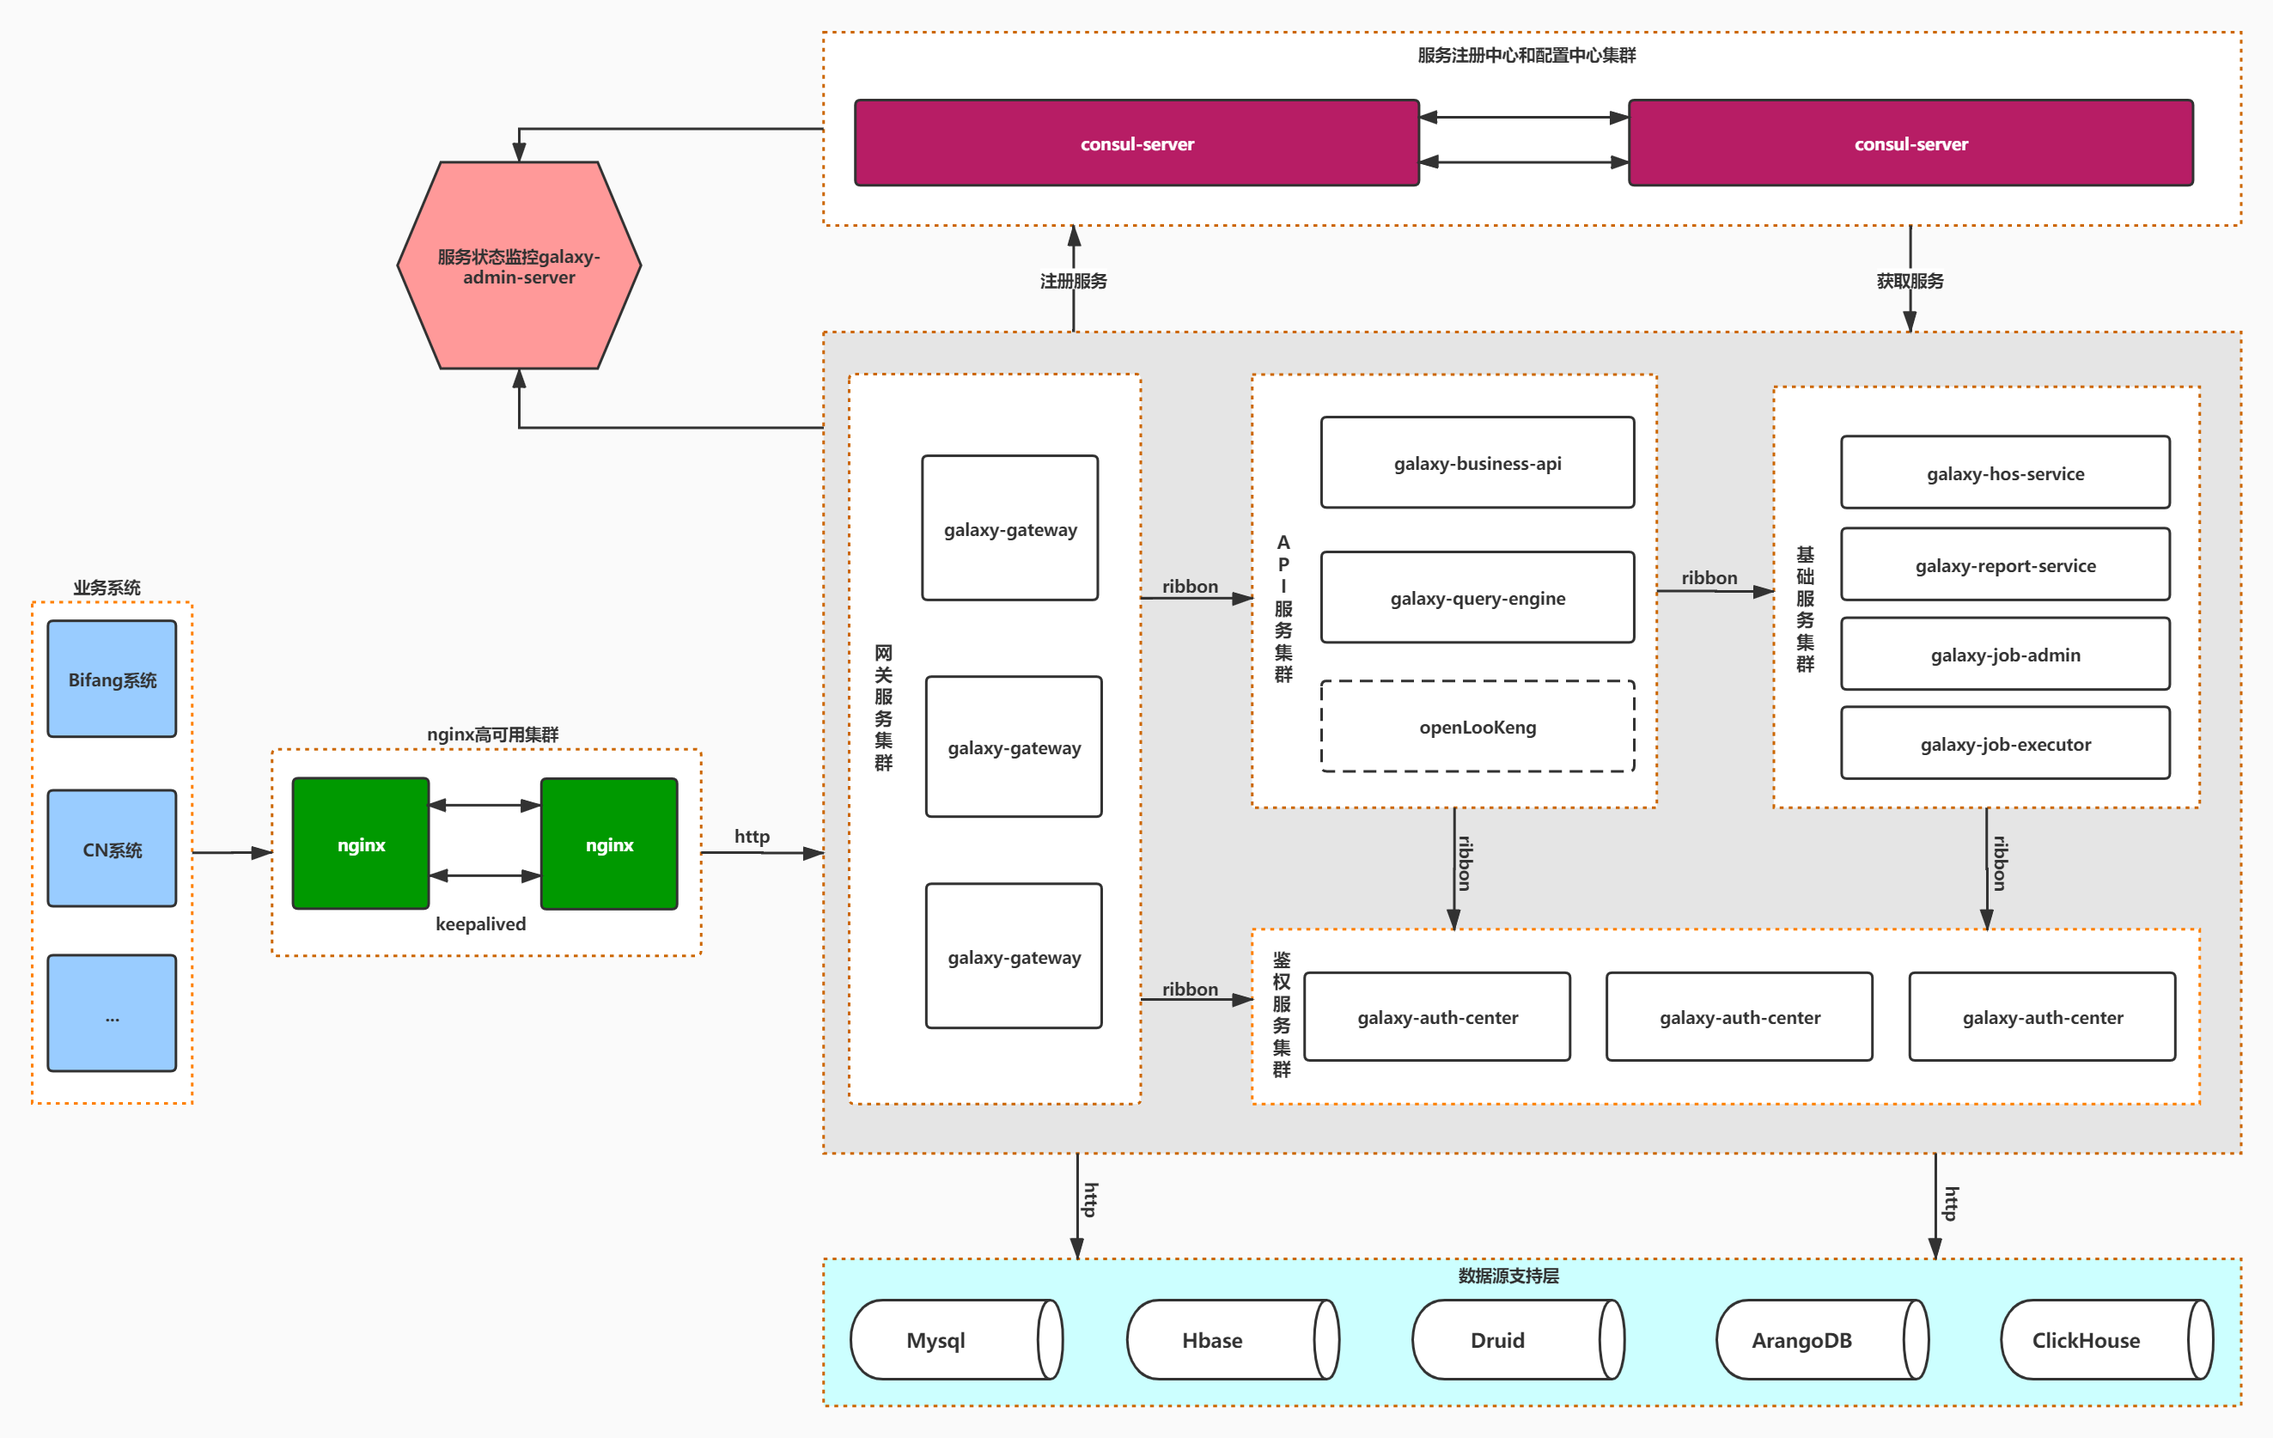
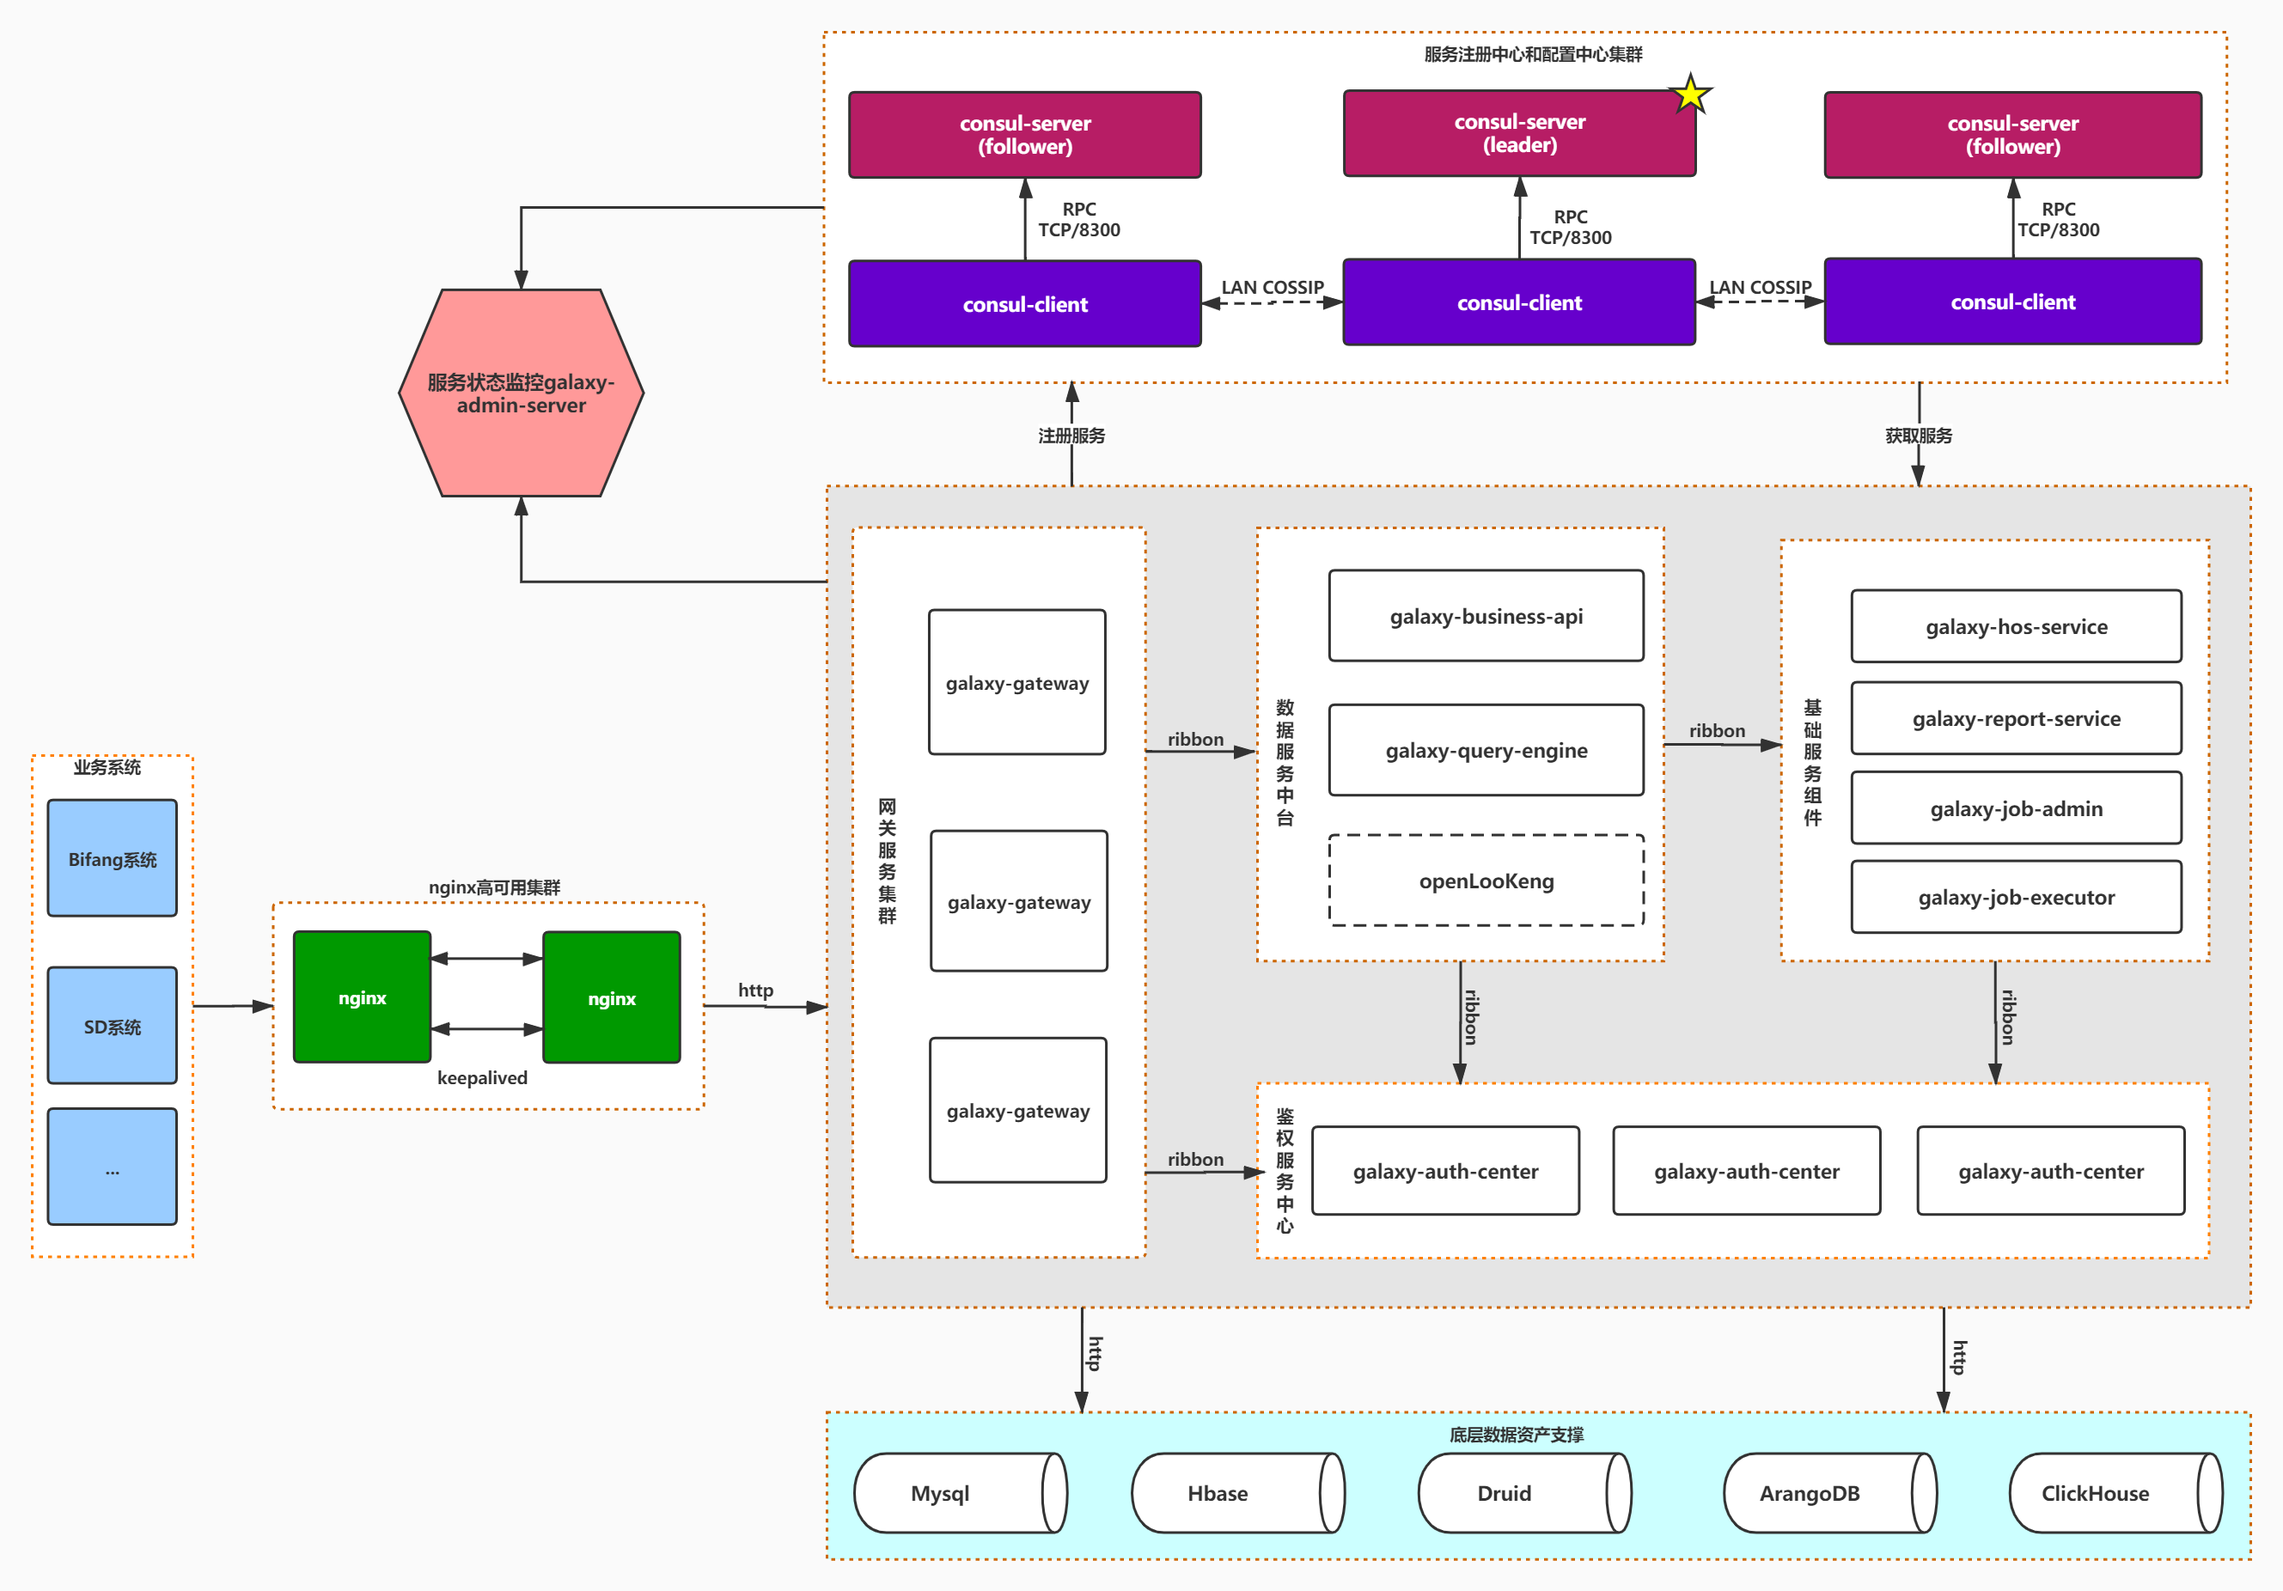
update

diff --git a/README.md b/README.md
@@ -5,7 +5,7 @@
 ## Introduction
 统一的接口支持流式、批量作业，提供交互式SQL分析和例行调度，让您更方便编写和提交ETL程序，高效执行大数据计算程序，让大数据处理变得如此简单。
 ## Technology stack
-**Spring Boot 2.0.2.RELEASE** https://docs.spring.io/spring-boot/docs/2.2.2.RELEASE/reference/html/index.html
+**Spring Boot 2.2.0.RELEASE** https://docs.spring.io/spring-boot/docs/2.2.0.RELEASE/reference/html/index.html
 
 **Spring Boot Admin 2.3.0** https://codecentric.github.io/spring-boot-admin/2.3.0/
 ## 系统架构图
